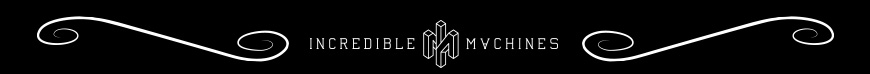
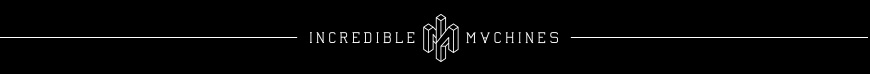
ndew facebook and twitter integration, new footer grafix

Changed region(s): [[0.0, 0.1892, 1.0, 0.9189]]

diff --git a/app/public/css/holiday.css b/app/public/css/holiday.css
@@ -117,14 +117,20 @@ canvas#video{
 }
 
 .vis-logo{
-	padding-right:150px;
+	padding-right:208px;
+	float:left;
 }
 
 .copyright{
 	color:#666;
 	display:inline;
 	font-size:10px;
-	padding-left:80px;
+	padding-left:180px;
+}
+
+.twitter-share-button{
+	float:left;
+	padding-top:0;
 }
 
 

diff --git a/app/public/css/style.css b/app/public/css/style.css
@@ -214,3 +214,7 @@ label {
 button i {
   padding-left: 8px;
 }
+
+.twitter-share-button{
+  padding-top:100px;
+}

diff --git a/app/public/js/views/home.js b/app/public/js/views/home.js
@@ -1,4 +1,3 @@
-
 $(document).ready(function(){
 
 	var hc = new HomeController();
